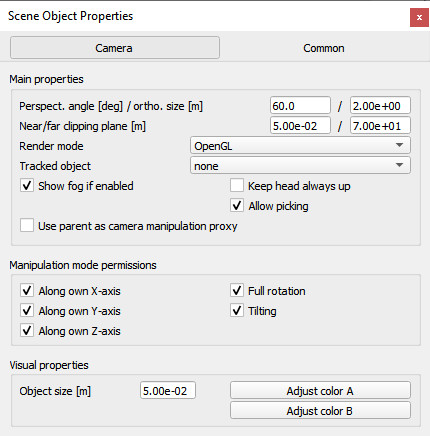
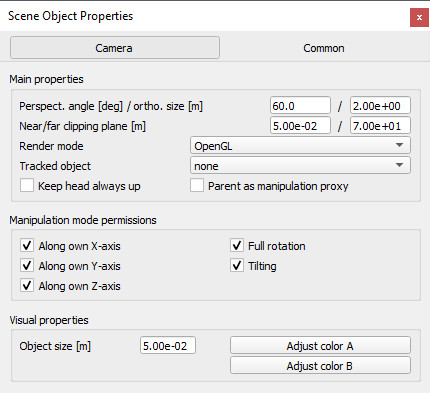
added sim.registerScriptFuncHook

diff --git a/en/acknowledgments.htm b/en/acknowledgments.htm
@@ -136,7 +136,7 @@ Eric Rohmer who is a thorough CoppeliaSim tester and an &quot;idea machine&quot;
 <li>Emanuel Eichhammer, for his <a href="http://www.customplot.com">QCustomPlot</a> used in the <a href="customUIPlugin.htm">custom UI plugin</a>. <a href="#qcustomplot">See the license</a>.</li>
 <li>Benjamin Navarro, for his code in the legacy remote API, which enables shared memory communication instead of socket communication.</li>
 
-<li>Following people for noticing bugs, reporting problems, suggesting solutions or new ideas, providing patches, code improvements, or simply helping out: Guillermo Presti, Matthias Fueller, Paul Fudal, Matthieu Lapeyre, Alberto Fanjul, Laurens Philippo, Vadim Liventsev, Kirill Makukhin, Patrick Bouffard, Pouya Mohammadi, Luca Marchionni, Barrett Ames, Arnaud Leleve, Geerten Doornenbal, Nikolaus Wittenstein, Ayberk Ozgur, Qi Wang, Giordano, Karl Robillard, Brian Yeomans, Kiyoshi Irie, Ulrich Schwesinger, Peter Mačička, Inkyu Sa, David Butterworth, Marco Cognetti, Xinyu Zhang, Jaqueline Gallardo, Serkan ÇİÇEK, Taehoon Koo, He Tao, Yusuke Ishizawa, Billy Newman, Rüdiger Dehmel, Roberto Marino, Renaud Detry, Roband, Hendrik Wiese, Matthias Schindler, George Moustris, Marco Bellaccini, Klaus Raizer, Paulo Gurgel, Stéphane Magnenat, Philipp Krüsi, Pascal Gohl, Gianpaolo Gonnelli, Felix Herrmann, Edgar Virga, Josep Tormo Costa, Gaël Ecorchard, Massimo Cefalo, Robert Lang, Marc Durvaux, Alexander Rietzler, Matt Derry, Arne Hitzmann, Sergi Foix, Daniel Morberg, Andreas Kuhner, Gerold Huber, Danilo Vasconcellos Vargas, Spencer Krause, Daniel Kuhner, Filip Jares, Luigi Ferri, Michaela Richter, Daniel Lechner, Sven Knüppel, Steve Nguyen, Jonas Sperling, Roberto Guzman, James Besancon, Andrew Vardy, Bipeen Acharya, Fred Gisa, Simon D. Levy, Leopoldo Armesto, Rodrigo Moreno Garcia, Hanna Kurniawati, Dimitri Klimenko, Joshua Mun Song,  Vinay Yadav, Thomas Estier, Matthias Imle, Rosé Rosado, Soner Ulun, Reza Mahjourian, Ben Allan, Riccardo Spica,  Giovanni Claudio, Guenter Schreiber, Antoine Rennuit, Francois Conti, Sébastien Granges, Patrick Helmer, Eva Alves Costa, Lucian Cucu, Sigurd Villumsen, Andrea Censi, Pierre Rouanet, Leander Hille, Christoph Hügle, William Harrison, Scott Drew Pendleton, Jan Dentler, Raimund Krenmüller, Anuraj Rajendraprakash, Ilya Nemihin, Ángel Luis Jiménez García, Leander Hille, Pierre Rouanet, Kenichi Hara, Ilya Nemihin, Federico Ferri, Michael Michalik, Martin Pecka, Nicola Piccinelli, Kshitij Tiwari, Victor Gomez, Parker Owan, Yuki Suga, Muhammad Umer Huzaifa, Marshall Floyd, Augusto Gandia, Pierre Jacquot, Gurvan Le Bleis, Andreu Vidal, Nicola Di Pol, Tobias Groll, Wu Xiaojun, Karol Mocniak, Ana Lucia, Ricardo Azambuja, Anto Ronson, Graeme Neff Wilson, Minson Lee, Tiago Malheiro, Andrew Hundt, Ahmed Yacine, Matthias Ploner, Indranil Sur, Sung Kyun Kim, Rik Timmers, Matthew Veres, Korolyov Alexei, Daniel Angelov, Mohammed Talha, Bartolomeo Della Corte, Scott Hissam, Mark Fink, Hao Wang, Matias Nitsche, Ndivhuwo Makondo, Yu Zhang, DeKita G. Moon, Paul Santiago Tumbaco Casa, Tobias Benz, Rodrigo Moreno Garcia, Arjun Narayanan, Sven Schweigler, Nicola Battilani, Mark Edmonds,  Benno Timmermann, Cándido Otero Moreira, Justin Yim, Allen Zhu, Leo Koppel, Ravi Prakash Joshi, Sina Radmard, Sai Vemprala, Waleed El-Badry, James Barger, Gonzalo Casas, Metehan Doyran, Arif Rahman, Jason Cachrane, Steffen Hemer, Fangyi Zhang, Filipe Rocha, virgile Daugé, Riccardo Spica, Florian Golemo, Kevin M. Lynch, Frank C. Park, Jacob Huesman, Matthew Veres, Cándido Otero, Leon Masopust, Michael Tong, Zhengxing Yang, Thomas Gurriet, Lenka Pitonakova, Hervé Frezza-Buet, Justus Rijke, Stefan Müller, Julien Lechalupe, Tristan Gahler, Robert Peck, William Jones, Benjamin Erdemann, Boris Bogaerts, Ulrich Viereck, Amdrei Florea, Catalin Buiu, Joachim Haensel, Julian Mayer, Jacob Smith, Mohsen Moradi Dalvand, Simon Birrell, Mathias Thor, Jedrzej Orbik, Liu Dong, Mark Hartenstein, Alexander Oliva, Claudio Gaz, Simon Birrell, Sahil Sharma, Adrian Schoisengeier, Rémi Lux, Kilian Freitag, Maël Hörz, Jakub Turaj, Rieky Barady, Jian Ye, Jaime Boal, Pável Axel Mc Campos Peña, Patrick Gruener, Thomas Wilmotte, Lorenzo Romanini, Johan Relefors, Pablo Bustos, Sonny Tarbouriech, Aleksander Sil, Arturs Paugurs, Wei Wei, David Page, Leopoldo Armesto, Ayush Patel, Cameron Kabacinski, Francisco Marin, Kevin Thomas, Nikita Aigner, Charles Han, Shai Levy, Bobovsky Zdenko, Salvatore Sessa, Jakob Ambsdorf, Hayato Amaike, Nathan Kocherhans, Alex Wuqi Zhang, René Simon, Yongdong Wang, Andrés Faíña, Davide Scorza, Jovan Sumarac, Alexander Oliva... We know we forgot many many people, also significant ones... please let us know!</li>
+<li>Following people for noticing bugs, reporting problems, suggesting solutions or new ideas, providing patches, code improvements, or simply helping out: Guillermo Presti, Matthias Fueller, Paul Fudal, Matthieu Lapeyre, Alberto Fanjul, Laurens Philippo, Vadim Liventsev, Kirill Makukhin, Patrick Bouffard, Pouya Mohammadi, Luca Marchionni, Barrett Ames, Arnaud Leleve, Geerten Doornenbal, Nikolaus Wittenstein, Ayberk Ozgur, Qi Wang, Giordano, Karl Robillard, Brian Yeomans, Kiyoshi Irie, Ulrich Schwesinger, Peter Mačička, Inkyu Sa, David Butterworth, Marco Cognetti, Xinyu Zhang, Jaqueline Gallardo, Serkan ÇİÇEK, Taehoon Koo, He Tao, Yusuke Ishizawa, Billy Newman, Rüdiger Dehmel, Roberto Marino, Renaud Detry, Roband, Hendrik Wiese, Matthias Schindler, George Moustris, Marco Bellaccini, Klaus Raizer, Paulo Gurgel, Stéphane Magnenat, Philipp Krüsi, Pascal Gohl, Gianpaolo Gonnelli, Felix Herrmann, Edgar Virga, Josep Tormo Costa, Gaël Ecorchard, Massimo Cefalo, Robert Lang, Marc Durvaux, Alexander Rietzler, Matt Derry, Arne Hitzmann, Sergi Foix, Daniel Morberg, Andreas Kuhner, Gerold Huber, Danilo Vasconcellos Vargas, Spencer Krause, Daniel Kuhner, Filip Jares, Luigi Ferri, Michaela Richter, Daniel Lechner, Sven Knüppel, Steve Nguyen, Jonas Sperling, Roberto Guzman, James Besancon, Andrew Vardy, Bipeen Acharya, Fred Gisa, Simon D. Levy, Leopoldo Armesto, Rodrigo Moreno Garcia, Hanna Kurniawati, Dimitri Klimenko, Joshua Mun Song,  Vinay Yadav, Thomas Estier, Matthias Imle, Rosé Rosado, Soner Ulun, Reza Mahjourian, Ben Allan, Riccardo Spica,  Giovanni Claudio, Guenter Schreiber, Antoine Rennuit, Francois Conti, Sébastien Granges, Patrick Helmer, Eva Alves Costa, Lucian Cucu, Sigurd Villumsen, Andrea Censi, Pierre Rouanet, Leander Hille, Christoph Hügle, William Harrison, Scott Drew Pendleton, Jan Dentler, Raimund Krenmüller, Anuraj Rajendraprakash, Ilya Nemihin, Ángel Luis Jiménez García, Leander Hille, Pierre Rouanet, Kenichi Hara, Ilya Nemihin, Federico Ferri, Michael Michalik, Martin Pecka, Nicola Piccinelli, Kshitij Tiwari, Victor Gomez, Parker Owan, Yuki Suga, Muhammad Umer Huzaifa, Marshall Floyd, Augusto Gandia, Pierre Jacquot, Gurvan Le Bleis, Andreu Vidal, Nicola Di Pol, Tobias Groll, Wu Xiaojun, Karol Mocniak, Ana Lucia, Ricardo Azambuja, Anto Ronson, Graeme Neff Wilson, Minson Lee, Tiago Malheiro, Andrew Hundt, Ahmed Yacine, Matthias Ploner, Indranil Sur, Sung Kyun Kim, Rik Timmers, Matthew Veres, Korolyov Alexei, Daniel Angelov, Mohammed Talha, Bartolomeo Della Corte, Scott Hissam, Mark Fink, Hao Wang, Matias Nitsche, Ndivhuwo Makondo, Yu Zhang, DeKita G. Moon, Paul Santiago Tumbaco Casa, Tobias Benz, Rodrigo Moreno Garcia, Arjun Narayanan, Sven Schweigler, Nicola Battilani, Mark Edmonds,  Benno Timmermann, Cándido Otero Moreira, Justin Yim, Allen Zhu, Leo Koppel, Ravi Prakash Joshi, Sina Radmard, Sai Vemprala, Waleed El-Badry, James Barger, Gonzalo Casas, Metehan Doyran, Arif Rahman, Jason Cachrane, Steffen Hemer, Fangyi Zhang, Filipe Rocha, virgile Daugé, Riccardo Spica, Florian Golemo, Kevin M. Lynch, Frank C. Park, Jacob Huesman, Matthew Veres, Cándido Otero, Leon Masopust, Michael Tong, Zhengxing Yang, Thomas Gurriet, Lenka Pitonakova, Hervé Frezza-Buet, Justus Rijke, Stefan Müller, Julien Lechalupe, Tristan Gahler, Robert Peck, William Jones, Benjamin Erdemann, Boris Bogaerts, Ulrich Viereck, Amdrei Florea, Catalin Buiu, Joachim Haensel, Julian Mayer, Jacob Smith, Mohsen Moradi Dalvand, Simon Birrell, Mathias Thor, Jedrzej Orbik, Liu Dong, Mark Hartenstein, Alexander Oliva, Claudio Gaz, Simon Birrell, Sahil Sharma, Adrian Schoisengeier, Rémi Lux, Kilian Freitag, Maël Hörz, Jakub Turaj, Rieky Barady, Jian Ye, Jaime Boal, Pável Axel Mc Campos Peña, Patrick Gruener, Thomas Wilmotte, Lorenzo Romanini, Johan Relefors, Pablo Bustos, Sonny Tarbouriech, Aleksander Sil, Arturs Paugurs, Wei Wei, David Page, Leopoldo Armesto, Ayush Patel, Cameron Kabacinski, Francisco Marin, Kevin Thomas, Nikita Aigner, Charles Han, Shai Levy, Bobovsky Zdenko, Salvatore Sessa, Jakob Ambsdorf, Hayato Amaike, Nathan Kocherhans, Alex Wuqi Zhang, René Simon, Yongdong Wang, Andrés Faíña, Davide Scorza, Jovan Sumarac, Alexander Oliva, Luigi Ascione... We know we forgot many many people, also significant ones... please let us know!</li>
 
 <p>
 I also wish to thank following people for the inspiration they provided in various fields through their publications, books or other means:

diff --git a/en/versionInfo.htm b/en/versionInfo.htm
@@ -42,21 +42,23 @@ W identifies a revision number (0 is usually for a beta version, 1 for a first r
 Version history:
 </p>
 
-<!--
  
+<!--
 <table class=subsectionTable><tr class=subsectionTd>
  <td class=subsectionTd><a name="coppeliaSim4.3.0" id="coppeliaSim4.3.0"></a>CoppeliaSim V4.3.0 (not yet released)</td></tr></table> 
  
-<li>Fixed several bugs. Thanks to Nathan Kocherhans, René Simon, Yongdong Wang, Andrés Faíña, Eric Rohmer, Davide Scorza, Jovan Sumarac and Alex Wuqi Zhang for noticing them or helping to resolve them.</li>
+<li>Fixed several bugs. Thanks to Nathan Kocherhans, René Simon, Yongdong Wang, Andrés Faíña, Eric Rohmer, Davide Scorza, Jovan Sumarac, Luigi Ascione, Cameron Kabacinski and Alex Wuqi Zhang for noticing them or helping to resolve them.</li>
 <li>Objects are now identified via a path and an <em>alias</em>, instead of a unique object name, as was the case in previous versions: this allows for a safer and more flexible <a href="accessingSceneObjects.htm">object access</a>, by specifying absolute or relative paths, e.g. <a href="regularApi/simGetObjectHandle.htm">sim.getObjectHandle</a>(&quot;./descendentObject&quot;). This also means that object aliases (i.e. formerly <em>names</em>), do not need to be unique anymore. See also <a href="regularApi/simGetObjectAlias.htm">sim.getObjectAlias</a> and <a href="regularApi/simSetObjectAlias.htm">sim.setObjectAlias</a>.</li>
 <li>Object's <em>renderable</em> flags are now ignored by <a href="visionSensors.htm">vision sensors</a>: instead, vision sensors will render object in the same way as do <a href="cameras.htm">cameras</a>, by only taking into account their visibility state: this ends some confusion, but can lead in some situations to a different behaviour and result. Flexibility is however still guaranteed, with the ability to use a <a href="collections.htm">collection</a> as renderable entity, which can override object's visibility states.</li>
 <li>Added an <a href="addOns.htm">add-on</a> that allows to record animations from any selected object/model: <em>Animation capture</em></li>
 <li>Added an add-on that allows to generate and edit 3D text: <em>3D text generator</em>. The add-on is courtesy of <em>Mechatronics Ninja</em></li>
 <li>Added a model of the Franka Emika gripper, courtesy of Alexander Oliva</li>
+<li>Added <a href="regularApi/simRegisterScriptFuncHook.htm">sim.registerScriptFuncHook</a> that allows to hook functions</li>
 <li>Added <a href="regularApi/simGetShapeBB.htm">sim.getShapeBB</a> and <a href="regularApi/simSetShapeBB.htm">sim.setShapeBB</a> to be able to scale shapes more conveniently</li>
 <li>Added an example model of a Stewart platform: <em>Models/robots/non-mobile/Stewart platform.ttm</em></li>
 <li>Added an example scenes of IK and obstacle avoidance: <em>Scenes/kinematics/obstacleAvoidanceAndIk.ttt</em></li>
 <li>Added an scene that illustrate's the relationship of <a href="eulerAngles.htm">CoppeliaSim's Euler angles convention (alpha-beta-gamma)</a> and the yaw-pitch-roll Euler angles convention: <em>Scenes/eulerAngles.ttt</em></li>
+<li>Added an example scene illustrating IK movement via the <a href="legacyRemoteApiOverview.htm">legacy remote API</a> or via the <a href="b0RemoteApiOverview.htm">B0-based remote API</a>: <em>scenes/messaging/ikMovementViaRemoteApi.ttt</em>. Related Python scripts can be found in <em>programming/remoteApiBindings/python/python/</em> and in <em>programming/b0RemoteApiBindings/python/</em></li>
 <br>
 <br>
 -->
@@ -65,7 +67,7 @@ Version history:
 <table class=subsectionTable><tr class=subsectionTd>
  <td class=subsectionTd><a name="coppeliaSim4.2.0" id="coppeliaSim4.2.0"></a>CoppeliaSim V4.2.0 (April 6th 2021)</td></tr></table> 
  
-<li>Fixed several bugs. Thanks to Adrian Schoisengeier, Mathias Thor, Francisco Marin, Nikita Aigner, Charles Han, Shai Levy, Bobovsky Zdenko, Salvatore Sessa, Jakob Ambsdorf, Hayato Amaike and Kevin Thomas for noticing them or helping to resolve them.</li>
+<li>Fixed several bugs. Thanks to Adrian Schoisengeier, Mathias Thor, Francisco Marin, Nikita Aigner, Charles Han, Shai Levy, Bobovsky Zdenko, Salvatore Sessa, Jakob Ambsdorf, Hayato Amaike, and Kevin Thomas for noticing them or helping to resolve them.</li>
 <li><a href="scripts.htm">All script types</a> now support <a href="threadedAndNonThreadedCode.htm">threaded or non-threaded operation</a>. Threaded operation is handled via coroutines that are preemptively interrupted by CoppeliaSim. Except for its code, there is no difference anymore between a threaded and non-threaded script. Old threaded child scripts are still supported for backward compatibility, but CoppeliaSim will try to automatically convert them. If this is not desired, adjust value <em>keepOldThreadedScripts</em> in <em>system/usrset.txt</em>.</li>
 <li>Switched from Lua 5.1 to Lua 5.3. Backward compatibility should normally be maintained, except maybe for old Lua modules you might be using. If this is the case, update those module to their Lua 5.3 counterparts. Read also about the <a href="http://www.lua.org/manual/5.2/manual.html#8" target="_blank">language incompatibilities introduced in Lua 5.2</a>, and the <a href="http://www.lua.org/manual/5.3/manual.html#8" target="_blank">language incompatibilities introduced in Lua 5.3</a>. Additional backward compatibility code can be communicated to us and added to <em>lua/sim.lua.</em></li>
 <li>The <a href="ros2Interface.htm">ROS2 interface</a> is now also supported on Windows.</li>

diff --git a/en/apiFunctions.htm b/en/apiFunctions.htm
@@ -502,6 +502,7 @@ See also:
 <a href="regularApi/simSetScriptText.htm">sim.setScriptText</a> (Lua)                                <a href="regularApi/simSetScriptText.htm">simSetScriptText</a> (C/C++)
 <a href="regularApi/simReadCustomDataBlock.htm"></a><a href="regularApi/simRegisterScriptFunction.htm">sim.registerScriptFunction</a> (Lua)                       <a href="regularApi/simRegisterScriptCallbackFunction.htm">simRegisterScriptCallbackFunction</a> (C/C++)
 <a href="regularApi/simRegisterScriptVariable.htm">sim.registerScriptVariable</a> (Lua)                       <a href="regularApi/simRegisterScriptVariable.htm">simRegisterScriptVariable</a> (C/C++)
+<a href="regularApi/simRegisterScriptFuncHook.htm">sim.registerScriptFuncHook</a> (Lua)                       <a href="regularApi/simRegisterScriptFuncHook.htm">simRegisterScriptFuncHook</a> (C/C++)
 <a href="regularApi/simGetStackTraceback.htm">sim.getStackTraceback</a> (Lua)
 </pre>
 <br>
@@ -537,6 +538,7 @@ See also:
 <pre class=lightGreyBox>
 <a href="regularApi/simRegisterScriptFunction.htm">sim.registerScriptFunction</a> (Lua)                       <a href="regularApi/simRegisterScriptCallbackFunction.htm">simRegisterScriptCallbackFunction</a> (C/C++)
 <a href="regularApi/simRegisterScriptVariable.htm">sim.registerScriptVariable</a> (Lua)                       <a href="regularApi/simRegisterScriptVariable.htm">simRegisterScriptVariable</a> (C/C++)
+<a href="regularApi/simRegisterScriptFuncHook.htm">sim.registerScriptFuncHook</a> (Lua)                       <a href="regularApi/simRegisterScriptFuncHook.htm">simRegisterScriptFuncHook</a> (C/C++)
 </pre>
 <br>
 
@@ -843,17 +845,6 @@ See also:
 </pre>
 <br>
 
-<!--
-<h3 class=subsectionBar><a name="debug"></a>Script debug functionality</h3>
-<pre class=lightGreyBox>
-<a href="regularApi/simSetDebugWatchList.htm">sim.setDebugWatchList</a> (Lua)
-<a href="regularApi/simGetUserVariables.htm">sim.getUserVariables</a> (Lua)
-</pre>
-<br>
--->
-
-
-
 <h3 class=subsectionBar><a name="engineParameters"></a>Physics engines</h3>
 <pre class=lightGreyBox>
 <a href="regularApi/simGetEngineFloatParam.htm">sim.getEngineFloatParam</a> (Lua)                          <a href="regularApi/simGetEngineFloatParam.htm">simGetEngineFloatParam</a> (C/C++)
@@ -915,6 +906,7 @@ See also:
 <a href="regularApi/simTextEditorGetInfo.htm">sim.textEditorGetInfo</a> (Lua)
 <a href="regularApi/simTextEditorOpen.htm">sim.textEditorOpen</a> (Lua)
 <a href="regularApi/simTextEditorShow.htm">sim.textEditorShow</a> (Lua)
+<a href="regularApi/simGetUserVariables.htm">sim.getUserVariables</a> (Lua)
 </pre>
 
 <br>

diff --git a/en/regularApi/simRegisterScriptFuncHook.htm b/en/regularApi/simRegisterScriptFuncHook.htm
@@ -1,0 +1,82 @@
+<!DOCTYPE HTML PUBLIC "-//W3C//DTD HTML 4.0 Strict//EN">
+<html>
+
+<head>
+<meta http-equiv="Content-Language" content="en-us">
+<title>sim.registerScriptFuncHook</title>
+<link rel="stylesheet" type="text/css" href="../../style.css">
+</head>
+
+<body>
+
+<div align="center">
+<table class=allEncompassingTable >
+ <tr>
+  <td >
+<p><a href="../../index.html" TARGET="_top"><img src="../images/homeImg.png"></a></p>
+
+<h1>Regular API function</h1>
+<h3 class=subsectionBar><a name="simRegisterScriptFuncHook" id="simRegisterScriptFuncHook"></a>sim.registerScriptFuncHook</h3>
+<table class=apiTable>
+<tr class=apiTableTr> 
+<td class=apiTableLeftDescr>
+Description 
+</td> 
+<td class=apiTableRightDescr><div>Registers a script function hook, that will be executed before or after the specified function. Calling this function a second time with the same arguments will unregister a previous hook.</div>
+</td>
+</tr> 
+<tr class=apiTableTr> 
+<td class=apiTableLeftCSyn>
+C synopsis
+</td> 
+<td class=apiTableRightCSyn><div>simInt simRegisterScriptFuncHook(simInt scriptHandle,const simChar* funcToHook,const simChar* userFunc,simBool execBefore,simInt options)</div></td> 
+</tr> 
+<tr class=apiTableTr> 
+<td class=apiTableLeftCParam>C parameters</td> 
+<td class=apiTableRightCParam>
+<div><strong>scriptHandle</strong>: the handle of the script</div>
+<div><strong>funcToHook</strong>: the function to hook</div>
+<div><strong>userFunc</strong>: the user function</div>
+<div><strong>execBefore</strong>: if true, the user function will be called before the function to hook. Otherwise it will be called after.</div>
+<div><strong>options</strong>: set to 0</div>
+</td> 
+</tr> 
+<tr class=apiTableTr> 
+<td class=apiTableLeftCRet>
+C return value
+</td> 
+<td class=apiTableRightCRet>
+<div>1 if the hook registration was successful, 0 if a previous hook was removed, and -1 in case of an error</div>
+</td> 
+</tr> 
+<tr class=apiTableTr> 
+<td class=apiTableLeftLSyn>
+Lua synopsis
+</td> 
+<td class=apiTableRightLSyn><div>int result=sim.registerScriptFuncHook(string funcToHook,string userFunc,bool execBefore)</div>
+</td> 
+</tr> 
+<tr class=apiTableTr> 
+<td class=apiTableLeftLParam>Lua parameters</td> 
+<td class=apiTableRightLParam>
+<div>Similar to the C-function counterpart</div>
+</td> 
+</tr> 
+<tr class=apiTableTr> 
+<td class=apiTableLeftLRet>
+Lua return values
+</td> 
+<td class=apiTableRightLRet>
+<div>Similar to the C-function counterpart</div>
+</td> 
+</tr> 
+</table> 
+
+
+<br>
+</td>
+</tr>
+</table>
+</div>
+</body>
+</html>

diff --git a/en/userInterface.htm b/en/userInterface.htm
@@ -67,7 +67,7 @@ In following section, a brief description will be given of the application windo
 
 
 
-<li><a name="SceneHierarchy"></a><strong>scene hierarchy</strong>: the scene hierarchy is visible by default, but can be toggled with its corresponding toolbar button. It displays the content of a scene (i.e. all scene objects composing a scene). Since <a href="objects.htm">scene objects</a> are built in a hierarchy-like structure, the scene hierarchy displays a tree of this hierarchy, and individual elements can be expanded or collapsed. A double-click on an icon opens/closes a property dialog related to the clicked icon. A double-click on an object alias allows editing it. The mouse wheel as well as a drag of the scene hierarchy view's scrollbars allows shifting the content up/down or left/right. Control and shift selection is always supported. Objects in the scene hierarchy can be dragged and dropped onto another object, in order to create a parent-child relationship. The scene hierarchy will display a different content if the simulator is in an edit-mode state. Refer to the <a href="shapeEditModes.htm">shape edit modes</a> for more information.</li>
+<li><a name="SceneHierarchy"></a><a name="sceneHierarchy"></a><strong>scene hierarchy</strong>: the scene hierarchy is visible by default, but can be toggled with its corresponding toolbar button. It displays the content of a scene (i.e. all scene objects composing a scene). Since <a href="objects.htm">scene objects</a> are built in a hierarchy-like structure, the scene hierarchy displays a tree of this hierarchy, and individual elements can be expanded or collapsed. A double-click on an icon opens/closes a property dialog related to the clicked icon. A double-click on an object alias allows editing it. The mouse wheel as well as a drag of the scene hierarchy view's scrollbars allows shifting the content up/down or left/right. Control and shift selection is always supported. Objects in the scene hierarchy can be dragged and dropped onto another object, in order to create a parent-child relationship. The scene hierarchy will display a different content if the simulator is in an edit-mode state. Refer to the <a href="shapeEditModes.htm">shape edit modes</a> for more information.</li>
 
 <p align=center><img src="images/sceneHierarchy.jpg"></p>
 <p class=imageLabel>[Scene hierarchy]</p>

diff --git a/en/scriptProperties.htm b/en/scriptProperties.htm
@@ -41,15 +41,6 @@
 
 <li><strong>Tree traveral</strong>: specifies when a script is executed, in relation to the scripts attached further down in the scene hierarchy (its <em>descendants scripts</em>). With <em>reverse</em>, the descendant scripts are first executed, with <em>forward</em>, the descendant scripts are executed last. <em>Same as parent</em> uses the same tree traversal as the first ancestor script. The tree traversal relates only to same-type scripts. More details can be found <a href="scriptExecution.htm">here</a>. </li>
 
-<!--
-<li><a name="debugMode"></a><strong>Debug mode</strong>: offers a simple way to monitor function calls and to watch variables. The functionality is enabled by intercepting every call (once before it actually happens, and also once it has executed) and calling the debug function <em>__HIDDEN__.debug.entryFunc</em> in the script <em>lua/sim.lua</em> (which can be modified by the user if needed). Following debug modes are supported:</li>
-<li class=tab><em>watch system calls</em>: monitors only calls originating from outside the script</li>
-<li class=tab><em>watch variables, ~1 second interval</em>: monitors changes in variables at an approximate one second interval. <a href="regularApi/simSetDebugWatchList.htm">sim.setDebugWatchList</a> can be used to watch specific variables only.</li>
-<li class=tab><em>watch all calls (slow)</em>: monitors all function calls</li>
-<li class=tab><em>watch variables (slow)</em>: monitors changes in variables at each function call (before and after). <a href="regularApi/simSetDebugWatchList.htm">sim.setDebugWatchList</a> can be used to watch specific variables only.</li>
-<li class=tab><em>watch calls and variables (slow)</em>: monitors all function calls and changes in variables. <a href="regularApi/simSetDebugWatchList.htm">sim.setDebugWatchList</a> can be used to watch specific variables only.</li>
--->
-
 <br>
 <br>
  </tr>

diff --git a/en/cameraPropertiesDialog.htm b/en/cameraPropertiesDialog.htm
@@ -49,17 +49,10 @@
 </li>
 
 
-<li> <strong>Show fog if enabled</strong>: if disabled, then this camera won't see any fog if fog is enabled. Also refer to the <a href="environmentPropertiesDialog.htm">environment dialog</a>.
-</li>
-
 <li> <strong>Keep head always up</strong>: if enabled, the camera will always try to<em> keep its head up</em>, i.e. keep the camera's y-axis in a vertical plane.<br>
 </li>
 
-<li> <strong>Use local lights</strong>: if enabled, then only local lights parented with this camera (i.e. built on top of this camera) will be activated when displaying this camera's image content. <a href="lights.htm">Lights</a> can be made local in the <a href="lightPropertiesDialog.htm">light properties</a>. </li>
-
-<li> <strong>Allow picking</strong>: allows you to enable/disable object picking (i.e. click to select an object)</li>
-
-<li> <strong>Use parent as camera manipulation proxy</strong>: if enabled, then the camera manipulation toolbar buttons will not affect the camera's position directly, but instead will affect the camera's parent object. This option is useful if you wish to have several cameras linked to each other (e.g. the default scene in CoppeliaSim has 3 cameras arranged orthogonally to each other. If one is moved, the two others will follow)<br>
+<li> <strong>Parent as manipulation proxy</strong>: if enabled, then the camera manipulation toolbar buttons will not affect the camera's position directly, but instead will affect the camera's parent object. This option is useful if you wish to have several cameras linked to each other (e.g. the default scene in CoppeliaSim has 3 cameras arranged orthogonally to each other. If one is moved, the two others will follow)<br>
 </li>
 
 

diff --git a/en/regularApi/simSetDebugWatchList.htm b/en/regularApi/simSetDebugWatchList.htm
@@ -22,18 +22,18 @@
 <td class=apiTableLeftDescr>
 Description 
 </td> 
-<td class=apiTableRightDescr>Allows to watch specific variables when a script is in a debug mode that displays variable changes.<br></td>
+<td class=apiTableRightDescr>Not supoported anymore.</td>
 </tr> 
 <tr class=apiTableTr> 
 <td class=apiTableLeftCSyn>
 C synopsis
 </td> 
-<td class=apiTableRightCSyn><div></div></td> 
+<td class=apiTableRightCSyn></td> 
 </tr> 
 <tr class=apiTableTr> 
 <td class=apiTableLeftCParam>C parameters</td> 
 <td class=apiTableRightCParam>
-<div></div>
+
 </td> 
 </tr> 
 <tr class=apiTableTr> 
@@ -41,19 +41,18 @@ C synopsis
 C return value
 </td> 
 <td class=apiTableRightCRet>
-<div></div>
+
 </td> 
 </tr> 
 <tr class=apiTableTr> 
 <td class=apiTableLeftLSyn>
 Lua synopsis
 </td> 
-<td class=apiTableRightLSyn><div>sim.setDebugWatchList(table[] listOfVariables)</div></td> 
+<td class=apiTableRightLSyn></td> 
 </tr> 
 <tr class=apiTableTr> 
 <td class=apiTableLeftLParam>Lua parameters</td> 
 <td class=apiTableRightLParam>
-<div><strong>listOfVariables</strong>: the list of variables to watch (e.g. {"x","arr[3]","model.handle"}), or nil to watch all variables.</div>
 </td> 
 </tr> 
 <tr class=apiTableTr> 
@@ -61,7 +60,7 @@ Lua synopsis
 Lua return values
 </td> 
 <td class=apiTableRightLRet>
-<div>none</div>
+
 </td> 
 </tr> 
 </table> 

diff --git a/en/accessingSceneObjects.htm b/en/accessingSceneObjects.htm
@@ -87,7 +87,7 @@ res,robotHandle=sim.simxGetObjectHandle(clientId,&quot;/Robot[1]&quot;,opMode)
 
 <p><em>Associated</em> code is code that is associated with a scene object (i.e. <em>attached</em> to a scene object). This includes all the code written for <a href="childScripts.htm">child scripts</a> or <a href="customizationScripts.htm">customization scripts</a>.</p>
 
-<p>In that case, objects can also be accessed in an absolute manner, but additionally, object access can also operate in a relative manner (relative to the current script (<em> ./ </em>), or relative to the model containing current script ( <em>:/</em> ) ):</p>
+<p>In that case, objects can also be accessed in an absolute manner, but additionally, object access can also operate in a relative manner (relative to the current script/object (<em> ./ </em>), or relative to the model containing current script ( <em>:/</em> ) ):</p>
 
 
 

diff --git a/en/regularApi/simGetObjectAlias.htm b/en/regularApi/simGetObjectAlias.htm
@@ -55,7 +55,7 @@ Lua synopsis
 <td class=apiTableLeftLParam>Lua parameters</td> 
 <td class=apiTableRightLParam>
 <div>Similar to the C-function counterpart</div>
-<div></div></td> 
+</td> 
 </tr> 
 <tr class=apiTableTr> 
 <td class=apiTableLeftLRet>
@@ -63,7 +63,7 @@ Lua return values
 </td> 
 <td class=apiTableRightLRet>
 <div>Similar to the C-function counterpart</div>
-<div></div></td> 
+</td> 
 </tr> 
 
 <tr class=apiTableTr> 

diff --git a/en/regularApi/simGetUserVariables.htm b/en/regularApi/simGetUserVariables.htm
@@ -22,7 +22,7 @@
 <td class=apiTableLeftDescr>
 Description 
 </td> 
-<td class=apiTableRightDescr>DEPRECATED. See variable _G instead.</td>
+<td class=apiTableRightDescr>Returns all variables, except those set by CoppeliaSim.</td>
 </tr> 
 <tr class=apiTableTr> 
 <td class=apiTableLeftCSyn>
